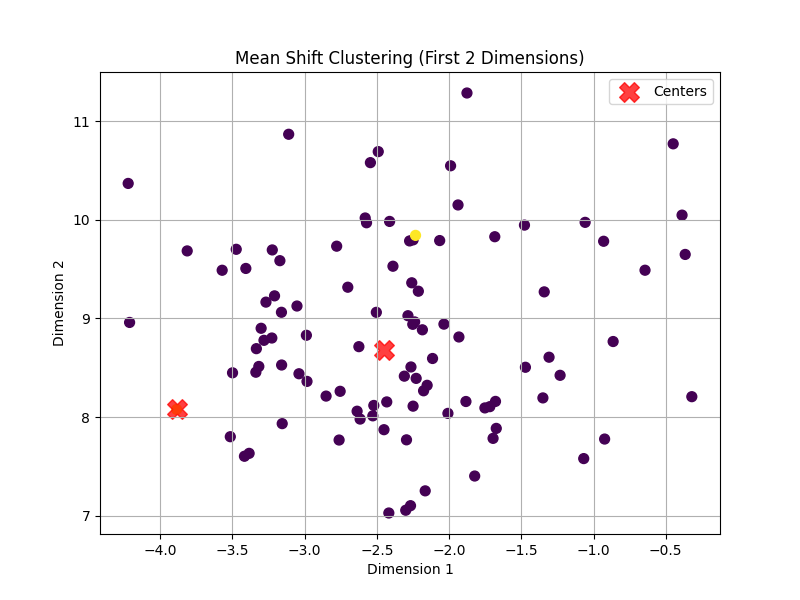
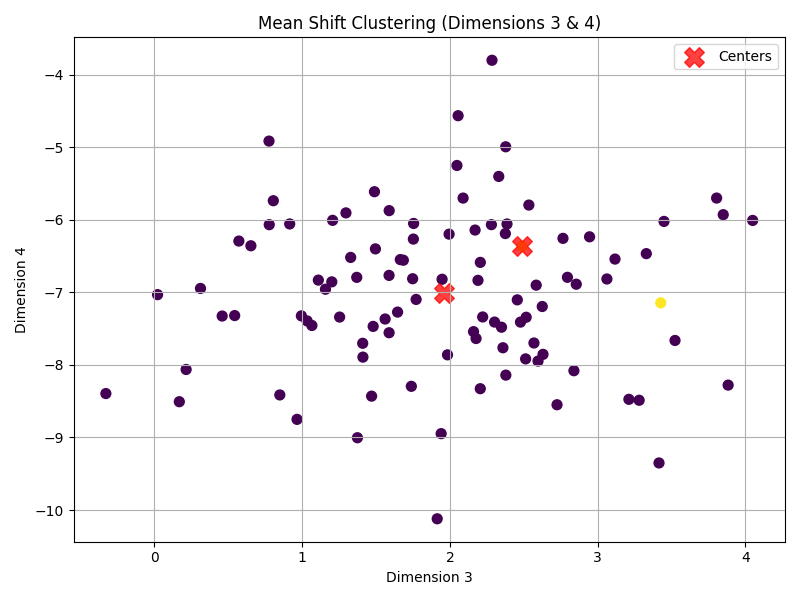
ultim

diff --git a/mean_shift.py b/mean_shift.py
@@ -2,49 +2,41 @@ import numpy as np
 from sklearn.cluster import MeanShift
 from sklearn.datasets import make_blobs
 import matplotlib.pyplot as plt
+import streamlit as st
+from PIL import Image
 
+# === Data Generation ===
 n = 6
-m = 100 
-
+m = 100
 X, _ = make_blobs(n_samples=m, centers=1, n_features=n, random_state=42)
 
-# === Step 2: Apply Mean Shift Clustering ===
+# === Clustering ===
 mean_shift = MeanShift()
 mean_shift.fit(X)
 labels = mean_shift.labels_
 cluster_centers = mean_shift.cluster_centers_
 
-print(f"Number of clusters found: {len(np.unique(labels))}")
-print("Cluster centers:\n", cluster_centers)
+st.title("Mean Shift Clustering Viewer")
+param = st.slider("Dimension", 0, n-2, 0)  # to allow param and param+1 to exist
 
-# === Step 3: (Optional) Plot if dimensions allow ===
-
-
-import streamlit as st
-from PIL import Image
-
-st.title("Image Viewer with Actions")
-
-
-param = st.slider("Dimension", 0, 5, 1)
-st.write("Looking: ", param, " and ", param+1, " dimensions")
+st.write(f"Looking at dimensions {param} and {param+1}")
 
 def run():
-    if n >= 2+param:
-        plt.figure(figsize=(8, 6))
-        plt.scatter(X[:, 0], X[:, 1], c=labels, cmap='viridis', s=50)
-        plt.scatter(cluster_centers[:, 0], cluster_centers[:, 1], 
-                    c='red', s=200, alpha=0.75, marker='X', label='Centers')
-        plt.title("Mean Shift Clustering (First 2 Dimensions)")
-        plt.xlabel("Dimension 1")
-        plt.ylabel("Dimension 2")
-        plt.legend()
-        plt.grid(True)
-        plt.savefig("mean_shift_clusters.png")
+    # Generate and save plot
+    plt.figure(figsize=(8, 6))
+    plt.scatter(X[:, param], X[:, param+1], c=labels, cmap='viridis', s=50)
+    plt.scatter(cluster_centers[:, param], cluster_centers[:, param+1], 
+                c='red', s=200, alpha=0.75, marker='X', label='Centers')
+    plt.title(f"Mean Shift Clustering (Dimensions {param} & {param+1})")
+    plt.xlabel(f"Dimension {param}")
+    plt.ylabel(f"Dimension {param+1}")
+    plt.legend()
+    plt.grid(True)
+    plt.tight_layout()
+    plt.savefig("mean_shift_clusters.png")
+    plt.close()  # Close the figure to avoid memory issues
 
-    else:
-        print("Plotting skipped (requires at least 2 dimensions)")
-if st.button("Action 1"):
+if st.button("Run Clustering View"):
     run()
     img = Image.open("mean_shift_clusters.png")
-    st.image(img, caption=f"Current image: {st.session_state.current_image}")
+    st.image(img, caption=f"Clustering Plot: Dimensions {param} & {param+1}")
